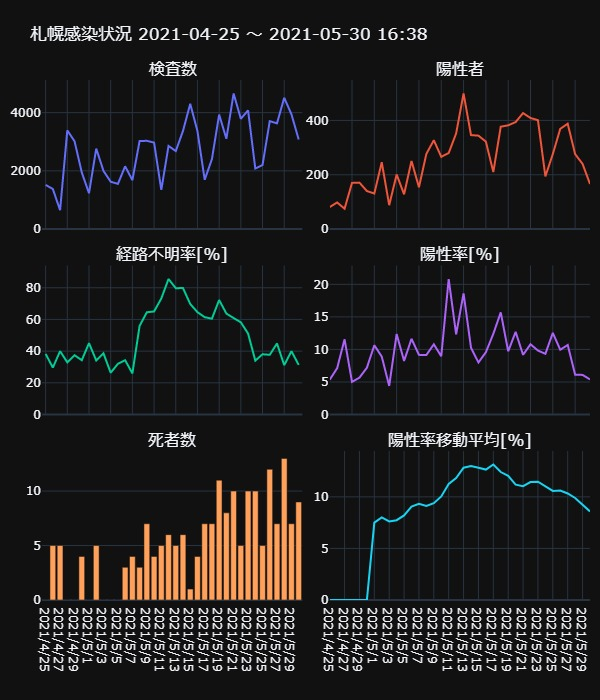
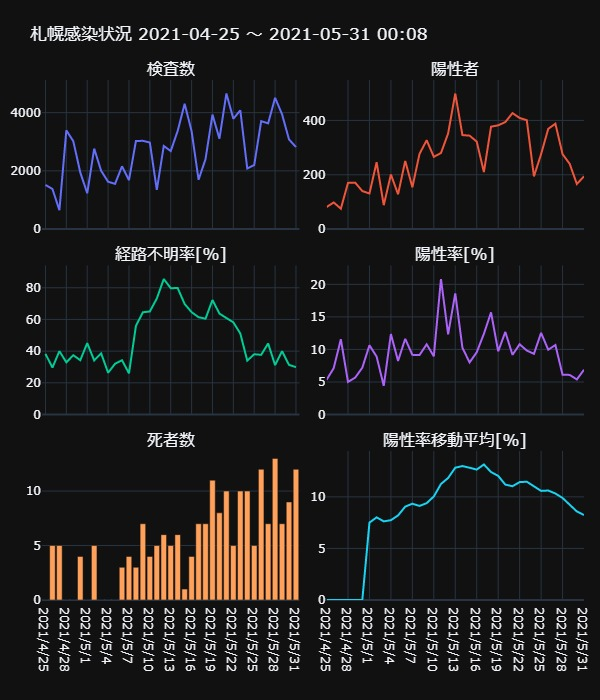
Updated with latest data.

diff --git a/docs/_includes/sapporo.html b/docs/_includes/sapporo.html
@@ -1,1 +1,1 @@
-<div>                            <div id="18ab1386-c784-4bfd-8491-410be364b0a9" class="plotly-graph-div" style="height:700px; width:600px;"></div>            <script type="text/javascript">                                    window.PLOTLYENV=window.PLOTLYENV || {};                                    if (document.getElementById("18ab1386-c784-4bfd-8491-410be364b0a9")) {                    Plotly.newPlot(                        "18ab1386-c784-4bfd-8491-410be364b0a9",                        [{"name": "\u691c\u67fb\u6570", "type": "scatter", "x": ["2021/4/25", "2021/4/26", "2021/4/27", "2021/4/28", "2021/4/29", "2021/4/30", "2021/5/1", "2021/5/2", "2021/5/3", "2021/5/4", "2021/5/5", "2021/5/6", "2021/5/7", "2021/5/8", "2021/5/9", "2021/5/10", "2021/5/11", "2021/5/12", "2021/5/13", "2021/5/14", "2021/5/15", "2021/5/16", "2021/5/17", "2021/5/18", "2021/5/19", "2021/5/20", "2021/5/21", "2021/5/22", "2021/5/23", "2021/5/24", "2021/5/25", "2021/5/26", "2021/5/27", "2021/5/28", "2021/5/29", "2021/5/30"], "xaxis": "x", "y": [1517, 1377, 649, 3391, 3018, 1946, 1231, 2764, 2001, 1626, 1553, 2157, 1680, 3028, 3031, 2972, 1345, 2856, 2680, 3372, 4302, 3365, 1694, 2402, 3933, 3105, 4656, 3789, 4080, 2080, 2201, 3708, 3632, 4511, 3943, 3079], "yaxis": "y"}, {"name": "\u967d\u6027\u8005", "type": "scatter", "x": ["2021/4/25", "2021/4/26", "2021/4/27", "2021/4/28", "2021/4/29", "2021/4/30", "2021/5/1", "2021/5/2", "2021/5/3", "2021/5/4", "2021/5/5", "2021/5/6", "2021/5/7", "2021/5/8", "2021/5/9", "2021/5/10", "2021/5/11", "2021/5/12", "2021/5/13", "2021/5/14", "2021/5/15", "2021/5/16", "2021/5/17", "2021/5/18", "2021/5/19", "2021/5/20", "2021/5/21", "2021/5/22", "2021/5/23", "2021/5/24", "2021/5/25", "2021/5/26", "2021/5/27", "2021/5/28", "2021/5/29", "2021/5/30"], "xaxis": "x2", "y": [81, 98, 75, 170, 171, 140, 131, 246, 88, 201, 128, 251, 154, 277, 327, 266, 280, 352, 499, 346, 344, 322, 210, 377, 382, 394, 427, 409, 401, 194, 276, 369, 388, 276, 240, 166], "yaxis": "y2"}, {"name": "\u7d4c\u8def\u4e0d\u660e\u7387[%]", "type": "scatter", "x": ["2021/4/25", "2021/4/26", "2021/4/27", "2021/4/28", "2021/4/29", "2021/4/30", "2021/5/1", "2021/5/2", "2021/5/3", "2021/5/4", "2021/5/5", "2021/5/6", "2021/5/7", "2021/5/8", "2021/5/9", "2021/5/10", "2021/5/11", "2021/5/12", "2021/5/13", "2021/5/14", "2021/5/15", "2021/5/16", "2021/5/17", "2021/5/18", "2021/5/19", "2021/5/20", "2021/5/21", "2021/5/22", "2021/5/23", "2021/5/24", "2021/5/25", "2021/5/26", "2021/5/27", "2021/5/28", "2021/5/29", "2021/5/30"], "xaxis": "x3", "y": [38.2716049382716, 29.591836734693878, 40.0, 32.94117647058823, 37.42690058479532, 34.285714285714285, 45.038167938931295, 34.146341463414636, 38.63636363636363, 26.368159203980102, 32.03125, 34.26294820717131, 25.97402597402597, 55.95667870036101, 64.52599388379205, 65.0375939849624, 73.21428571428571, 85.51136363636364, 79.75951903807615, 79.76878612716763, 69.76744186046511, 64.59627329192547, 61.42857142857143, 60.47745358090185, 72.25130890052355, 63.70558375634518, 60.88992974238876, 58.19070904645477, 51.12219451371571, 34.02061855670103, 38.04347826086957, 37.669376693766935, 44.84536082474227, 31.15942028985507, 40.0, 31.32530120481928], "yaxis": "y3"}, {"name": "\u967d\u6027\u7387[%]", "type": "scatter", "x": ["2021/4/25", "2021/4/26", "2021/4/27", "2021/4/28", "2021/4/29", "2021/4/30", "2021/5/1", "2021/5/2", "2021/5/3", "2021/5/4", "2021/5/5", "2021/5/6", "2021/5/7", "2021/5/8", "2021/5/9", "2021/5/10", "2021/5/11", "2021/5/12", "2021/5/13", "2021/5/14", "2021/5/15", "2021/5/16", "2021/5/17", "2021/5/18", "2021/5/19", "2021/5/20", "2021/5/21", "2021/5/22", "2021/5/23", "2021/5/24", "2021/5/25", "2021/5/26", "2021/5/27", "2021/5/28", "2021/5/29", "2021/5/30"], "xaxis": "x4", "y": [5.339485827290705, 7.116920842411038, 11.556240369799692, 5.013270421704512, 5.666003976143141, 7.194244604316546, 10.641754670999187, 8.90014471780029, 4.397801099450275, 12.361623616236162, 8.24211204121056, 11.636532220676866, 9.166666666666666, 9.147952443857331, 10.788518640712635, 8.950201884253028, 20.817843866171003, 12.324929971988796, 18.619402985074625, 10.26097271648873, 7.996280799628081, 9.569093610698365, 12.396694214876034, 15.695253955037469, 9.712687515891178, 12.689210950080515, 9.170962199312713, 10.794404856162576, 9.82843137254902, 9.326923076923077, 12.539754656974104, 9.951456310679612, 10.682819383259911, 6.1183772999334956, 6.086735987826528, 5.391360831438779], "yaxis": "y4"}, {"name": "\u6b7b\u8005\u6570", "type": "bar", "x": ["2021/4/25", "2021/4/26", "2021/4/27", "2021/4/28", "2021/4/29", "2021/4/30", "2021/5/1", "2021/5/2", "2021/5/3", "2021/5/4", "2021/5/5", "2021/5/6", "2021/5/7", "2021/5/8", "2021/5/9", "2021/5/10", "2021/5/11", "2021/5/12", "2021/5/13", "2021/5/14", "2021/5/15", "2021/5/16", "2021/5/17", "2021/5/18", "2021/5/19", "2021/5/20", "2021/5/21", "2021/5/22", "2021/5/23", "2021/5/24", "2021/5/25", "2021/5/26", "2021/5/27", "2021/5/28", "2021/5/29", "2021/5/30"], "xaxis": "x5", "y": [0, 5, 5, 0, 0, 4, 0, 5, 0, 0, 0, 3, 4, 3, 7, 4, 5, 6, 5, 6, 1, 4, 7, 7, 11, 8, 10, 5, 10, 10, 5, 12, 7, 13, 7, 9], "yaxis": "y5"}, {"name": "\u967d\u6027\u7387\u79fb\u52d5\u5e73\u5747[%]", "type": "scatter", "x": ["2021/4/25", "2021/4/26", "2021/4/27", "2021/4/28", "2021/4/29", "2021/4/30", "2021/5/1", "2021/5/2", "2021/5/3", "2021/5/4", "2021/5/5", "2021/5/6", "2021/5/7", "2021/5/8", "2021/5/9", "2021/5/10", "2021/5/11", "2021/5/12", "2021/5/13", "2021/5/14", "2021/5/15", "2021/5/16", "2021/5/17", "2021/5/18", "2021/5/19", "2021/5/20", "2021/5/21", "2021/5/22", "2021/5/23", "2021/5/24", "2021/5/25", "2021/5/26", "2021/5/27", "2021/5/28", "2021/5/29", "2021/5/30"], "xaxis": "x6", "y": [0.0, 0.0, 0.0, 0.0, 0.0, 0.0, 7.503988673237832, 8.012654229024914, 7.624208551459091, 7.739263300950015, 8.20052638945088, 9.053458995812841, 9.335233576148571, 9.12183325798545, 9.391600961258641, 10.041943930516178, 11.249975394792585, 11.833235099189475, 12.830788065532012, 12.987117501220878, 12.8225929806167, 12.648389404900376, 13.140745452132233, 12.408946893398872, 12.035769399670638, 11.188599108957195, 11.032883320789193, 11.432615328865548, 11.469663580558498, 11.03112484656522, 10.580339232556168, 10.614449060383087, 10.32782169369443, 9.891738136640255, 9.219214012592248, 8.585346792433644], "yaxis": "y6"}],                        {"annotations": [{"font": {"size": 16}, "showarrow": false, "text": "\u691c\u67fb\u6570", "x": 0.2375, "xanchor": "center", "xref": "paper", "y": 1.0, "yanchor": "bottom", "yref": "paper"}, {"font": {"size": 16}, "showarrow": false, "text": "\u967d\u6027\u8005", "x": 0.7625, "xanchor": "center", "xref": "paper", "y": 1.0, "yanchor": "bottom", "yref": "paper"}, {"font": {"size": 16}, "showarrow": false, "text": "\u7d4c\u8def\u4e0d\u660e\u7387[%]", "x": 0.2375, "xanchor": "center", "xref": "paper", "y": 0.6433333333333333, "yanchor": "bottom", "yref": "paper"}, {"font": {"size": 16}, "showarrow": false, "text": "\u967d\u6027\u7387[%]", "x": 0.7625, "xanchor": "center", "xref": "paper", "y": 0.6433333333333333, "yanchor": "bottom", "yref": "paper"}, {"font": {"size": 16}, "showarrow": false, "text": "\u6b7b\u8005\u6570", "x": 0.2375, "xanchor": "center", "xref": "paper", "y": 0.2866666666666667, "yanchor": "bottom", "yref": "paper"}, {"font": {"size": 16}, "showarrow": false, "text": "\u967d\u6027\u7387\u79fb\u52d5\u5e73\u5747[%]", "x": 0.7625, "xanchor": "center", "xref": "paper", "y": 0.2866666666666667, "yanchor": "bottom", "yref": "paper"}], "height": 700, "margin": {"b": 100, "l": 10, "r": 10, "t": 80}, "showlegend": false, "template": {"data": {"bar": [{"error_x": {"color": "#f2f5fa"}, "error_y": {"color": "#f2f5fa"}, "marker": {"line": {"color": "rgb(17,17,17)", "width": 0.5}}, "type": "bar"}], "barpolar": [{"marker": {"line": {"color": "rgb(17,17,17)", "width": 0.5}}, "type": "barpolar"}], "carpet": [{"aaxis": {"endlinecolor": "#A2B1C6", "gridcolor": "#506784", "linecolor": "#506784", "minorgridcolor": "#506784", "startlinecolor": "#A2B1C6"}, "baxis": {"endlinecolor": "#A2B1C6", "gridcolor": "#506784", "linecolor": "#506784", "minorgridcolor": "#506784", "startlinecolor": "#A2B1C6"}, "type": "carpet"}], "choropleth": [{"colorbar": {"outlinewidth": 0, "ticks": ""}, "type": "choropleth"}], "contour": [{"colorbar": {"outlinewidth": 0, "ticks": ""}, "colorscale": [[0.0, "#0d0887"], [0.1111111111111111, "#46039f"], [0.2222222222222222, "#7201a8"], [0.3333333333333333, "#9c179e"], [0.4444444444444444, "#bd3786"], [0.5555555555555556, "#d8576b"], [0.6666666666666666, "#ed7953"], [0.7777777777777778, "#fb9f3a"], [0.8888888888888888, "#fdca26"], [1.0, "#f0f921"]], "type": "contour"}], "contourcarpet": [{"colorbar": {"outlinewidth": 0, "ticks": ""}, "type": "contourcarpet"}], "heatmap": [{"colorbar": {"outlinewidth": 0, "ticks": ""}, "colorscale": [[0.0, "#0d0887"], [0.1111111111111111, "#46039f"], [0.2222222222222222, "#7201a8"], [0.3333333333333333, "#9c179e"], [0.4444444444444444, "#bd3786"], [0.5555555555555556, "#d8576b"], [0.6666666666666666, "#ed7953"], [0.7777777777777778, "#fb9f3a"], [0.8888888888888888, "#fdca26"], [1.0, "#f0f921"]], "type": "heatmap"}], "heatmapgl": [{"colorbar": {"outlinewidth": 0, "ticks": ""}, "colorscale": [[0.0, "#0d0887"], [0.1111111111111111, "#46039f"], [0.2222222222222222, "#7201a8"], [0.3333333333333333, "#9c179e"], [0.4444444444444444, "#bd3786"], [0.5555555555555556, "#d8576b"], [0.6666666666666666, "#ed7953"], [0.7777777777777778, "#fb9f3a"], [0.8888888888888888, "#fdca26"], [1.0, "#f0f921"]], "type": "heatmapgl"}], "histogram": [{"marker": {"colorbar": {"outlinewidth": 0, "ticks": ""}}, "type": "histogram"}], "histogram2d": [{"colorbar": {"outlinewidth": 0, "ticks": ""}, "colorscale": [[0.0, "#0d0887"], [0.1111111111111111, "#46039f"], [0.2222222222222222, "#7201a8"], [0.3333333333333333, "#9c179e"], [0.4444444444444444, "#bd3786"], [0.5555555555555556, "#d8576b"], [0.6666666666666666, "#ed7953"], [0.7777777777777778, "#fb9f3a"], [0.8888888888888888, "#fdca26"], [1.0, "#f0f921"]], "type": "histogram2d"}], "histogram2dcontour": [{"colorbar": {"outlinewidth": 0, "ticks": ""}, "colorscale": [[0.0, "#0d0887"], [0.1111111111111111, "#46039f"], [0.2222222222222222, "#7201a8"], [0.3333333333333333, "#9c179e"], [0.4444444444444444, "#bd3786"], [0.5555555555555556, "#d8576b"], [0.6666666666666666, "#ed7953"], [0.7777777777777778, "#fb9f3a"], [0.8888888888888888, "#fdca26"], [1.0, "#f0f921"]], "type": "histogram2dcontour"}], "mesh3d": [{"colorbar": {"outlinewidth": 0, "ticks": ""}, "type": "mesh3d"}], "parcoords": [{"line": {"colorbar": {"outlinewidth": 0, "ticks": ""}}, "type": "parcoords"}], "pie": [{"automargin": true, "type": "pie"}], "scatter": [{"marker": {"line": {"color": "#283442"}}, "type": "scatter"}], "scatter3d": [{"line": {"colorbar": {"outlinewidth": 0, "ticks": ""}}, "marker": {"colorbar": {"outlinewidth": 0, "ticks": ""}}, "type": "scatter3d"}], "scattercarpet": [{"marker": {"colorbar": {"outlinewidth": 0, "ticks": ""}}, "type": "scattercarpet"}], "scattergeo": [{"marker": {"colorbar": {"outlinewidth": 0, "ticks": ""}}, "type": "scattergeo"}], "scattergl": [{"marker": {"line": {"color": "#283442"}}, "type": "scattergl"}], "scattermapbox": [{"marker": {"colorbar": {"outlinewidth": 0, "ticks": ""}}, "type": "scattermapbox"}], "scatterpolar": [{"marker": {"colorbar": {"outlinewidth": 0, "ticks": ""}}, "type": "scatterpolar"}], "scatterpolargl": [{"marker": {"colorbar": {"outlinewidth": 0, "ticks": ""}}, "type": "scatterpolargl"}], "scatterternary": [{"marker": {"colorbar": {"outlinewidth": 0, "ticks": ""}}, "type": "scatterternary"}], "surface": [{"colorbar": {"outlinewidth": 0, "ticks": ""}, "colorscale": [[0.0, "#0d0887"], [0.1111111111111111, "#46039f"], [0.2222222222222222, "#7201a8"], [0.3333333333333333, "#9c179e"], [0.4444444444444444, "#bd3786"], [0.5555555555555556, "#d8576b"], [0.6666666666666666, "#ed7953"], [0.7777777777777778, "#fb9f3a"], [0.8888888888888888, "#fdca26"], [1.0, "#f0f921"]], "type": "surface"}], "table": [{"cells": {"fill": {"color": "#506784"}, "line": {"color": "rgb(17,17,17)"}}, "header": {"fill": {"color": "#2a3f5f"}, "line": {"color": "rgb(17,17,17)"}}, "type": "table"}]}, "layout": {"annotationdefaults": {"arrowcolor": "#f2f5fa", "arrowhead": 0, "arrowwidth": 1}, "autotypenumbers": "strict", "coloraxis": {"colorbar": {"outlinewidth": 0, "ticks": ""}}, "colorscale": {"diverging": [[0, "#8e0152"], [0.1, "#c51b7d"], [0.2, "#de77ae"], [0.3, "#f1b6da"], [0.4, "#fde0ef"], [0.5, "#f7f7f7"], [0.6, "#e6f5d0"], [0.7, "#b8e186"], [0.8, "#7fbc41"], [0.9, "#4d9221"], [1, "#276419"]], "sequential": [[0.0, "#0d0887"], [0.1111111111111111, "#46039f"], [0.2222222222222222, "#7201a8"], [0.3333333333333333, "#9c179e"], [0.4444444444444444, "#bd3786"], [0.5555555555555556, "#d8576b"], [0.6666666666666666, "#ed7953"], [0.7777777777777778, "#fb9f3a"], [0.8888888888888888, "#fdca26"], [1.0, "#f0f921"]], "sequentialminus": [[0.0, "#0d0887"], [0.1111111111111111, "#46039f"], [0.2222222222222222, "#7201a8"], [0.3333333333333333, "#9c179e"], [0.4444444444444444, "#bd3786"], [0.5555555555555556, "#d8576b"], [0.6666666666666666, "#ed7953"], [0.7777777777777778, "#fb9f3a"], [0.8888888888888888, "#fdca26"], [1.0, "#f0f921"]]}, "colorway": ["#636efa", "#EF553B", "#00cc96", "#ab63fa", "#FFA15A", "#19d3f3", "#FF6692", "#B6E880", "#FF97FF", "#FECB52"], "font": {"color": "#f2f5fa"}, "geo": {"bgcolor": "rgb(17,17,17)", "lakecolor": "rgb(17,17,17)", "landcolor": "rgb(17,17,17)", "showlakes": true, "showland": true, "subunitcolor": "#506784"}, "hoverlabel": {"align": "left"}, "hovermode": "closest", "mapbox": {"style": "dark"}, "paper_bgcolor": "rgb(17,17,17)", "plot_bgcolor": "rgb(17,17,17)", "polar": {"angularaxis": {"gridcolor": "#506784", "linecolor": "#506784", "ticks": ""}, "bgcolor": "rgb(17,17,17)", "radialaxis": {"gridcolor": "#506784", "linecolor": "#506784", "ticks": ""}}, "scene": {"xaxis": {"backgroundcolor": "rgb(17,17,17)", "gridcolor": "#506784", "gridwidth": 2, "linecolor": "#506784", "showbackground": true, "ticks": "", "zerolinecolor": "#C8D4E3"}, "yaxis": {"backgroundcolor": "rgb(17,17,17)", "gridcolor": "#506784", "gridwidth": 2, "linecolor": "#506784", "showbackground": true, "ticks": "", "zerolinecolor": "#C8D4E3"}, "zaxis": {"backgroundcolor": "rgb(17,17,17)", "gridcolor": "#506784", "gridwidth": 2, "linecolor": "#506784", "showbackground": true, "ticks": "", "zerolinecolor": "#C8D4E3"}}, "shapedefaults": {"line": {"color": "#f2f5fa"}}, "sliderdefaults": {"bgcolor": "#C8D4E3", "bordercolor": "rgb(17,17,17)", "borderwidth": 1, "tickwidth": 0}, "ternary": {"aaxis": {"gridcolor": "#506784", "linecolor": "#506784", "ticks": ""}, "baxis": {"gridcolor": "#506784", "linecolor": "#506784", "ticks": ""}, "bgcolor": "rgb(17,17,17)", "caxis": {"gridcolor": "#506784", "linecolor": "#506784", "ticks": ""}}, "title": {"x": 0.05}, "updatemenudefaults": {"bgcolor": "#506784", "borderwidth": 0}, "xaxis": {"automargin": true, "gridcolor": "#283442", "linecolor": "#506784", "ticks": "", "title": {"standoff": 15}, "zerolinecolor": "#283442", "zerolinewidth": 2}, "yaxis": {"automargin": true, "gridcolor": "#283442", "linecolor": "#506784", "ticks": "", "title": {"standoff": 15}, "zerolinecolor": "#283442", "zerolinewidth": 2}}}, "title": {"text": "\u672d\u5e4c\u611f\u67d3\u72b6\u6cc1 2021-04-25 \uff5e 2021-05-30 16:38"}, "width": 600, "xaxis": {"anchor": "y", "domain": [0.0, 0.475], "matches": "x5", "showticklabels": false}, "xaxis2": {"anchor": "y2", "domain": [0.525, 1.0], "matches": "x6", "showticklabels": false}, "xaxis3": {"anchor": "y3", "domain": [0.0, 0.475], "matches": "x5", "showticklabels": false}, "xaxis4": {"anchor": "y4", "domain": [0.525, 1.0], "matches": "x6", "showticklabels": false}, "xaxis5": {"anchor": "y5", "domain": [0.0, 0.475]}, "xaxis6": {"anchor": "y6", "domain": [0.525, 1.0]}, "yaxis": {"anchor": "x", "domain": [0.7133333333333334, 1.0], "range": [0, 5121.6]}, "yaxis2": {"anchor": "x2", "domain": [0.7133333333333334, 1.0], "range": [0, 548.9000000000001]}, "yaxis3": {"anchor": "x3", "domain": [0.3566666666666667, 0.6433333333333333], "range": [0, 94.06250000000001]}, "yaxis4": {"anchor": "x4", "domain": [0.3566666666666667, 0.6433333333333333], "range": [0, 22.899628252788105]}, "yaxis5": {"anchor": "x5", "domain": [0.0, 0.2866666666666667]}, "yaxis6": {"anchor": "x6", "domain": [0.0, 0.2866666666666667], "range": [0, 14.454819997345457]}},                        {"responsive": true}                    )                };                            </script>        </div>
+<div>                            <div id="c6ce8169-d138-4baf-b7e5-bb169c43efc7" class="plotly-graph-div" style="height:700px; width:600px;"></div>            <script type="text/javascript">                                    window.PLOTLYENV=window.PLOTLYENV || {};                                    if (document.getElementById("c6ce8169-d138-4baf-b7e5-bb169c43efc7")) {                    Plotly.newPlot(                        "c6ce8169-d138-4baf-b7e5-bb169c43efc7",                        [{"name": "\u691c\u67fb\u6570", "type": "scatter", "x": ["2021/4/25", "2021/4/26", "2021/4/27", "2021/4/28", "2021/4/29", "2021/4/30", "2021/5/1", "2021/5/2", "2021/5/3", "2021/5/4", "2021/5/5", "2021/5/6", "2021/5/7", "2021/5/8", "2021/5/9", "2021/5/10", "2021/5/11", "2021/5/12", "2021/5/13", "2021/5/14", "2021/5/15", "2021/5/16", "2021/5/17", "2021/5/18", "2021/5/19", "2021/5/20", "2021/5/21", "2021/5/22", "2021/5/23", "2021/5/24", "2021/5/25", "2021/5/26", "2021/5/27", "2021/5/28", "2021/5/29", "2021/5/30", "2021/5/31"], "xaxis": "x", "y": [1517, 1377, 649, 3391, 3018, 1946, 1231, 2764, 2001, 1626, 1553, 2157, 1680, 3028, 3031, 2972, 1345, 2856, 2680, 3372, 4302, 3365, 1694, 2402, 3933, 3105, 4656, 3789, 4080, 2080, 2201, 3708, 3632, 4511, 3943, 3079, 2818], "yaxis": "y"}, {"name": "\u967d\u6027\u8005", "type": "scatter", "x": ["2021/4/25", "2021/4/26", "2021/4/27", "2021/4/28", "2021/4/29", "2021/4/30", "2021/5/1", "2021/5/2", "2021/5/3", "2021/5/4", "2021/5/5", "2021/5/6", "2021/5/7", "2021/5/8", "2021/5/9", "2021/5/10", "2021/5/11", "2021/5/12", "2021/5/13", "2021/5/14", "2021/5/15", "2021/5/16", "2021/5/17", "2021/5/18", "2021/5/19", "2021/5/20", "2021/5/21", "2021/5/22", "2021/5/23", "2021/5/24", "2021/5/25", "2021/5/26", "2021/5/27", "2021/5/28", "2021/5/29", "2021/5/30", "2021/5/31"], "xaxis": "x2", "y": [81, 98, 75, 170, 171, 140, 131, 246, 88, 201, 128, 251, 154, 277, 327, 266, 280, 352, 499, 346, 344, 322, 210, 377, 382, 394, 427, 409, 401, 194, 276, 369, 388, 276, 240, 166, 194], "yaxis": "y2"}, {"name": "\u7d4c\u8def\u4e0d\u660e\u7387[%]", "type": "scatter", "x": ["2021/4/25", "2021/4/26", "2021/4/27", "2021/4/28", "2021/4/29", "2021/4/30", "2021/5/1", "2021/5/2", "2021/5/3", "2021/5/4", "2021/5/5", "2021/5/6", "2021/5/7", "2021/5/8", "2021/5/9", "2021/5/10", "2021/5/11", "2021/5/12", "2021/5/13", "2021/5/14", "2021/5/15", "2021/5/16", "2021/5/17", "2021/5/18", "2021/5/19", "2021/5/20", "2021/5/21", "2021/5/22", "2021/5/23", "2021/5/24", "2021/5/25", "2021/5/26", "2021/5/27", "2021/5/28", "2021/5/29", "2021/5/30", "2021/5/31"], "xaxis": "x3", "y": [38.2716049382716, 29.591836734693878, 40.0, 32.94117647058823, 37.42690058479532, 34.285714285714285, 45.038167938931295, 34.146341463414636, 38.63636363636363, 26.368159203980102, 32.03125, 34.26294820717131, 25.97402597402597, 55.95667870036101, 64.52599388379205, 65.0375939849624, 73.21428571428571, 85.51136363636364, 79.75951903807615, 79.76878612716763, 69.76744186046511, 64.59627329192547, 61.42857142857143, 60.47745358090185, 72.25130890052355, 63.70558375634518, 60.88992974238876, 58.19070904645477, 51.12219451371571, 34.02061855670103, 38.04347826086957, 37.669376693766935, 44.84536082474227, 31.15942028985507, 40.0, 31.32530120481928, 29.896907216494846], "yaxis": "y3"}, {"name": "\u967d\u6027\u7387[%]", "type": "scatter", "x": ["2021/4/25", "2021/4/26", "2021/4/27", "2021/4/28", "2021/4/29", "2021/4/30", "2021/5/1", "2021/5/2", "2021/5/3", "2021/5/4", "2021/5/5", "2021/5/6", "2021/5/7", "2021/5/8", "2021/5/9", "2021/5/10", "2021/5/11", "2021/5/12", "2021/5/13", "2021/5/14", "2021/5/15", "2021/5/16", "2021/5/17", "2021/5/18", "2021/5/19", "2021/5/20", "2021/5/21", "2021/5/22", "2021/5/23", "2021/5/24", "2021/5/25", "2021/5/26", "2021/5/27", "2021/5/28", "2021/5/29", "2021/5/30", "2021/5/31"], "xaxis": "x4", "y": [5.339485827290705, 7.116920842411038, 11.556240369799692, 5.013270421704512, 5.666003976143141, 7.194244604316546, 10.641754670999187, 8.90014471780029, 4.397801099450275, 12.361623616236162, 8.24211204121056, 11.636532220676866, 9.166666666666666, 9.147952443857331, 10.788518640712635, 8.950201884253028, 20.817843866171003, 12.324929971988796, 18.619402985074625, 10.26097271648873, 7.996280799628081, 9.569093610698365, 12.396694214876034, 15.695253955037469, 9.712687515891178, 12.689210950080515, 9.170962199312713, 10.794404856162576, 9.82843137254902, 9.326923076923077, 12.539754656974104, 9.951456310679612, 10.682819383259911, 6.1183772999334956, 6.086735987826528, 5.391360831438779, 6.88431511710433], "yaxis": "y4"}, {"name": "\u6b7b\u8005\u6570", "type": "bar", "x": ["2021/4/25", "2021/4/26", "2021/4/27", "2021/4/28", "2021/4/29", "2021/4/30", "2021/5/1", "2021/5/2", "2021/5/3", "2021/5/4", "2021/5/5", "2021/5/6", "2021/5/7", "2021/5/8", "2021/5/9", "2021/5/10", "2021/5/11", "2021/5/12", "2021/5/13", "2021/5/14", "2021/5/15", "2021/5/16", "2021/5/17", "2021/5/18", "2021/5/19", "2021/5/20", "2021/5/21", "2021/5/22", "2021/5/23", "2021/5/24", "2021/5/25", "2021/5/26", "2021/5/27", "2021/5/28", "2021/5/29", "2021/5/30", "2021/5/31"], "xaxis": "x5", "y": [0, 5, 5, 0, 0, 4, 0, 5, 0, 0, 0, 3, 4, 3, 7, 4, 5, 6, 5, 6, 1, 4, 7, 7, 11, 8, 10, 5, 10, 10, 5, 12, 7, 13, 7, 9, 12], "yaxis": "y5"}, {"name": "\u967d\u6027\u7387\u79fb\u52d5\u5e73\u5747[%]", "type": "scatter", "x": ["2021/4/25", "2021/4/26", "2021/4/27", "2021/4/28", "2021/4/29", "2021/4/30", "2021/5/1", "2021/5/2", "2021/5/3", "2021/5/4", "2021/5/5", "2021/5/6", "2021/5/7", "2021/5/8", "2021/5/9", "2021/5/10", "2021/5/11", "2021/5/12", "2021/5/13", "2021/5/14", "2021/5/15", "2021/5/16", "2021/5/17", "2021/5/18", "2021/5/19", "2021/5/20", "2021/5/21", "2021/5/22", "2021/5/23", "2021/5/24", "2021/5/25", "2021/5/26", "2021/5/27", "2021/5/28", "2021/5/29", "2021/5/30", "2021/5/31"], "xaxis": "x6", "y": [0.0, 0.0, 0.0, 0.0, 0.0, 0.0, 7.503988673237832, 8.012654229024914, 7.624208551459091, 7.739263300950015, 8.20052638945088, 9.053458995812841, 9.335233576148571, 9.12183325798545, 9.391600961258641, 10.041943930516178, 11.249975394792585, 11.833235099189475, 12.830788065532012, 12.987117501220878, 12.8225929806167, 12.648389404900376, 13.140745452132233, 12.408946893398872, 12.035769399670638, 11.188599108957195, 11.032883320789193, 11.432615328865548, 11.469663580558498, 11.03112484656522, 10.580339232556168, 10.614449060383087, 10.32782169369443, 9.891738136640255, 9.219214012592248, 8.585346792433644, 8.236402798173822], "yaxis": "y6"}],                        {"annotations": [{"font": {"size": 16}, "showarrow": false, "text": "\u691c\u67fb\u6570", "x": 0.2375, "xanchor": "center", "xref": "paper", "y": 1.0, "yanchor": "bottom", "yref": "paper"}, {"font": {"size": 16}, "showarrow": false, "text": "\u967d\u6027\u8005", "x": 0.7625, "xanchor": "center", "xref": "paper", "y": 1.0, "yanchor": "bottom", "yref": "paper"}, {"font": {"size": 16}, "showarrow": false, "text": "\u7d4c\u8def\u4e0d\u660e\u7387[%]", "x": 0.2375, "xanchor": "center", "xref": "paper", "y": 0.6433333333333333, "yanchor": "bottom", "yref": "paper"}, {"font": {"size": 16}, "showarrow": false, "text": "\u967d\u6027\u7387[%]", "x": 0.7625, "xanchor": "center", "xref": "paper", "y": 0.6433333333333333, "yanchor": "bottom", "yref": "paper"}, {"font": {"size": 16}, "showarrow": false, "text": "\u6b7b\u8005\u6570", "x": 0.2375, "xanchor": "center", "xref": "paper", "y": 0.2866666666666667, "yanchor": "bottom", "yref": "paper"}, {"font": {"size": 16}, "showarrow": false, "text": "\u967d\u6027\u7387\u79fb\u52d5\u5e73\u5747[%]", "x": 0.7625, "xanchor": "center", "xref": "paper", "y": 0.2866666666666667, "yanchor": "bottom", "yref": "paper"}], "height": 700, "margin": {"b": 100, "l": 10, "r": 10, "t": 80}, "showlegend": false, "template": {"data": {"bar": [{"error_x": {"color": "#f2f5fa"}, "error_y": {"color": "#f2f5fa"}, "marker": {"line": {"color": "rgb(17,17,17)", "width": 0.5}}, "type": "bar"}], "barpolar": [{"marker": {"line": {"color": "rgb(17,17,17)", "width": 0.5}}, "type": "barpolar"}], "carpet": [{"aaxis": {"endlinecolor": "#A2B1C6", "gridcolor": "#506784", "linecolor": "#506784", "minorgridcolor": "#506784", "startlinecolor": "#A2B1C6"}, "baxis": {"endlinecolor": "#A2B1C6", "gridcolor": "#506784", "linecolor": "#506784", "minorgridcolor": "#506784", "startlinecolor": "#A2B1C6"}, "type": "carpet"}], "choropleth": [{"colorbar": {"outlinewidth": 0, "ticks": ""}, "type": "choropleth"}], "contour": [{"colorbar": {"outlinewidth": 0, "ticks": ""}, "colorscale": [[0.0, "#0d0887"], [0.1111111111111111, "#46039f"], [0.2222222222222222, "#7201a8"], [0.3333333333333333, "#9c179e"], [0.4444444444444444, "#bd3786"], [0.5555555555555556, "#d8576b"], [0.6666666666666666, "#ed7953"], [0.7777777777777778, "#fb9f3a"], [0.8888888888888888, "#fdca26"], [1.0, "#f0f921"]], "type": "contour"}], "contourcarpet": [{"colorbar": {"outlinewidth": 0, "ticks": ""}, "type": "contourcarpet"}], "heatmap": [{"colorbar": {"outlinewidth": 0, "ticks": ""}, "colorscale": [[0.0, "#0d0887"], [0.1111111111111111, "#46039f"], [0.2222222222222222, "#7201a8"], [0.3333333333333333, "#9c179e"], [0.4444444444444444, "#bd3786"], [0.5555555555555556, "#d8576b"], [0.6666666666666666, "#ed7953"], [0.7777777777777778, "#fb9f3a"], [0.8888888888888888, "#fdca26"], [1.0, "#f0f921"]], "type": "heatmap"}], "heatmapgl": [{"colorbar": {"outlinewidth": 0, "ticks": ""}, "colorscale": [[0.0, "#0d0887"], [0.1111111111111111, "#46039f"], [0.2222222222222222, "#7201a8"], [0.3333333333333333, "#9c179e"], [0.4444444444444444, "#bd3786"], [0.5555555555555556, "#d8576b"], [0.6666666666666666, "#ed7953"], [0.7777777777777778, "#fb9f3a"], [0.8888888888888888, "#fdca26"], [1.0, "#f0f921"]], "type": "heatmapgl"}], "histogram": [{"marker": {"colorbar": {"outlinewidth": 0, "ticks": ""}}, "type": "histogram"}], "histogram2d": [{"colorbar": {"outlinewidth": 0, "ticks": ""}, "colorscale": [[0.0, "#0d0887"], [0.1111111111111111, "#46039f"], [0.2222222222222222, "#7201a8"], [0.3333333333333333, "#9c179e"], [0.4444444444444444, "#bd3786"], [0.5555555555555556, "#d8576b"], [0.6666666666666666, "#ed7953"], [0.7777777777777778, "#fb9f3a"], [0.8888888888888888, "#fdca26"], [1.0, "#f0f921"]], "type": "histogram2d"}], "histogram2dcontour": [{"colorbar": {"outlinewidth": 0, "ticks": ""}, "colorscale": [[0.0, "#0d0887"], [0.1111111111111111, "#46039f"], [0.2222222222222222, "#7201a8"], [0.3333333333333333, "#9c179e"], [0.4444444444444444, "#bd3786"], [0.5555555555555556, "#d8576b"], [0.6666666666666666, "#ed7953"], [0.7777777777777778, "#fb9f3a"], [0.8888888888888888, "#fdca26"], [1.0, "#f0f921"]], "type": "histogram2dcontour"}], "mesh3d": [{"colorbar": {"outlinewidth": 0, "ticks": ""}, "type": "mesh3d"}], "parcoords": [{"line": {"colorbar": {"outlinewidth": 0, "ticks": ""}}, "type": "parcoords"}], "pie": [{"automargin": true, "type": "pie"}], "scatter": [{"marker": {"line": {"color": "#283442"}}, "type": "scatter"}], "scatter3d": [{"line": {"colorbar": {"outlinewidth": 0, "ticks": ""}}, "marker": {"colorbar": {"outlinewidth": 0, "ticks": ""}}, "type": "scatter3d"}], "scattercarpet": [{"marker": {"colorbar": {"outlinewidth": 0, "ticks": ""}}, "type": "scattercarpet"}], "scattergeo": [{"marker": {"colorbar": {"outlinewidth": 0, "ticks": ""}}, "type": "scattergeo"}], "scattergl": [{"marker": {"line": {"color": "#283442"}}, "type": "scattergl"}], "scattermapbox": [{"marker": {"colorbar": {"outlinewidth": 0, "ticks": ""}}, "type": "scattermapbox"}], "scatterpolar": [{"marker": {"colorbar": {"outlinewidth": 0, "ticks": ""}}, "type": "scatterpolar"}], "scatterpolargl": [{"marker": {"colorbar": {"outlinewidth": 0, "ticks": ""}}, "type": "scatterpolargl"}], "scatterternary": [{"marker": {"colorbar": {"outlinewidth": 0, "ticks": ""}}, "type": "scatterternary"}], "surface": [{"colorbar": {"outlinewidth": 0, "ticks": ""}, "colorscale": [[0.0, "#0d0887"], [0.1111111111111111, "#46039f"], [0.2222222222222222, "#7201a8"], [0.3333333333333333, "#9c179e"], [0.4444444444444444, "#bd3786"], [0.5555555555555556, "#d8576b"], [0.6666666666666666, "#ed7953"], [0.7777777777777778, "#fb9f3a"], [0.8888888888888888, "#fdca26"], [1.0, "#f0f921"]], "type": "surface"}], "table": [{"cells": {"fill": {"color": "#506784"}, "line": {"color": "rgb(17,17,17)"}}, "header": {"fill": {"color": "#2a3f5f"}, "line": {"color": "rgb(17,17,17)"}}, "type": "table"}]}, "layout": {"annotationdefaults": {"arrowcolor": "#f2f5fa", "arrowhead": 0, "arrowwidth": 1}, "autotypenumbers": "strict", "coloraxis": {"colorbar": {"outlinewidth": 0, "ticks": ""}}, "colorscale": {"diverging": [[0, "#8e0152"], [0.1, "#c51b7d"], [0.2, "#de77ae"], [0.3, "#f1b6da"], [0.4, "#fde0ef"], [0.5, "#f7f7f7"], [0.6, "#e6f5d0"], [0.7, "#b8e186"], [0.8, "#7fbc41"], [0.9, "#4d9221"], [1, "#276419"]], "sequential": [[0.0, "#0d0887"], [0.1111111111111111, "#46039f"], [0.2222222222222222, "#7201a8"], [0.3333333333333333, "#9c179e"], [0.4444444444444444, "#bd3786"], [0.5555555555555556, "#d8576b"], [0.6666666666666666, "#ed7953"], [0.7777777777777778, "#fb9f3a"], [0.8888888888888888, "#fdca26"], [1.0, "#f0f921"]], "sequentialminus": [[0.0, "#0d0887"], [0.1111111111111111, "#46039f"], [0.2222222222222222, "#7201a8"], [0.3333333333333333, "#9c179e"], [0.4444444444444444, "#bd3786"], [0.5555555555555556, "#d8576b"], [0.6666666666666666, "#ed7953"], [0.7777777777777778, "#fb9f3a"], [0.8888888888888888, "#fdca26"], [1.0, "#f0f921"]]}, "colorway": ["#636efa", "#EF553B", "#00cc96", "#ab63fa", "#FFA15A", "#19d3f3", "#FF6692", "#B6E880", "#FF97FF", "#FECB52"], "font": {"color": "#f2f5fa"}, "geo": {"bgcolor": "rgb(17,17,17)", "lakecolor": "rgb(17,17,17)", "landcolor": "rgb(17,17,17)", "showlakes": true, "showland": true, "subunitcolor": "#506784"}, "hoverlabel": {"align": "left"}, "hovermode": "closest", "mapbox": {"style": "dark"}, "paper_bgcolor": "rgb(17,17,17)", "plot_bgcolor": "rgb(17,17,17)", "polar": {"angularaxis": {"gridcolor": "#506784", "linecolor": "#506784", "ticks": ""}, "bgcolor": "rgb(17,17,17)", "radialaxis": {"gridcolor": "#506784", "linecolor": "#506784", "ticks": ""}}, "scene": {"xaxis": {"backgroundcolor": "rgb(17,17,17)", "gridcolor": "#506784", "gridwidth": 2, "linecolor": "#506784", "showbackground": true, "ticks": "", "zerolinecolor": "#C8D4E3"}, "yaxis": {"backgroundcolor": "rgb(17,17,17)", "gridcolor": "#506784", "gridwidth": 2, "linecolor": "#506784", "showbackground": true, "ticks": "", "zerolinecolor": "#C8D4E3"}, "zaxis": {"backgroundcolor": "rgb(17,17,17)", "gridcolor": "#506784", "gridwidth": 2, "linecolor": "#506784", "showbackground": true, "ticks": "", "zerolinecolor": "#C8D4E3"}}, "shapedefaults": {"line": {"color": "#f2f5fa"}}, "sliderdefaults": {"bgcolor": "#C8D4E3", "bordercolor": "rgb(17,17,17)", "borderwidth": 1, "tickwidth": 0}, "ternary": {"aaxis": {"gridcolor": "#506784", "linecolor": "#506784", "ticks": ""}, "baxis": {"gridcolor": "#506784", "linecolor": "#506784", "ticks": ""}, "bgcolor": "rgb(17,17,17)", "caxis": {"gridcolor": "#506784", "linecolor": "#506784", "ticks": ""}}, "title": {"x": 0.05}, "updatemenudefaults": {"bgcolor": "#506784", "borderwidth": 0}, "xaxis": {"automargin": true, "gridcolor": "#283442", "linecolor": "#506784", "ticks": "", "title": {"standoff": 15}, "zerolinecolor": "#283442", "zerolinewidth": 2}, "yaxis": {"automargin": true, "gridcolor": "#283442", "linecolor": "#506784", "ticks": "", "title": {"standoff": 15}, "zerolinecolor": "#283442", "zerolinewidth": 2}}}, "title": {"text": "\u672d\u5e4c\u611f\u67d3\u72b6\u6cc1 2021-04-25 \uff5e 2021-05-31 00:08"}, "width": 600, "xaxis": {"anchor": "y", "domain": [0.0, 0.475], "matches": "x5", "showticklabels": false}, "xaxis2": {"anchor": "y2", "domain": [0.525, 1.0], "matches": "x6", "showticklabels": false}, "xaxis3": {"anchor": "y3", "domain": [0.0, 0.475], "matches": "x5", "showticklabels": false}, "xaxis4": {"anchor": "y4", "domain": [0.525, 1.0], "matches": "x6", "showticklabels": false}, "xaxis5": {"anchor": "y5", "domain": [0.0, 0.475]}, "xaxis6": {"anchor": "y6", "domain": [0.525, 1.0]}, "yaxis": {"anchor": "x", "domain": [0.7133333333333334, 1.0], "range": [0, 5121.6]}, "yaxis2": {"anchor": "x2", "domain": [0.7133333333333334, 1.0], "range": [0, 548.9000000000001]}, "yaxis3": {"anchor": "x3", "domain": [0.3566666666666667, 0.6433333333333333], "range": [0, 94.06250000000001]}, "yaxis4": {"anchor": "x4", "domain": [0.3566666666666667, 0.6433333333333333], "range": [0, 22.899628252788105]}, "yaxis5": {"anchor": "x5", "domain": [0.0, 0.2866666666666667]}, "yaxis6": {"anchor": "x6", "domain": [0.0, 0.2866666666666667], "range": [0, 14.454819997345457]}},                        {"responsive": true}                    )                };                            </script>        </div>
